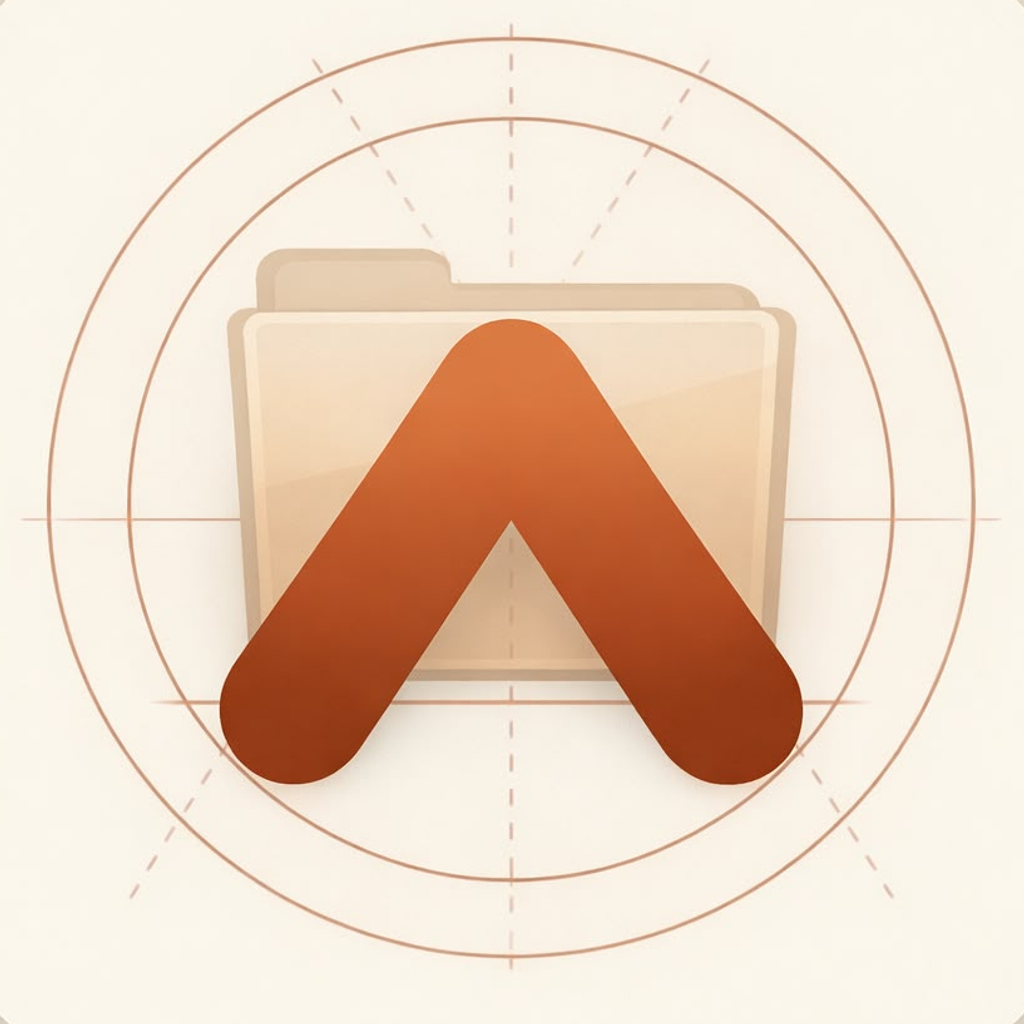
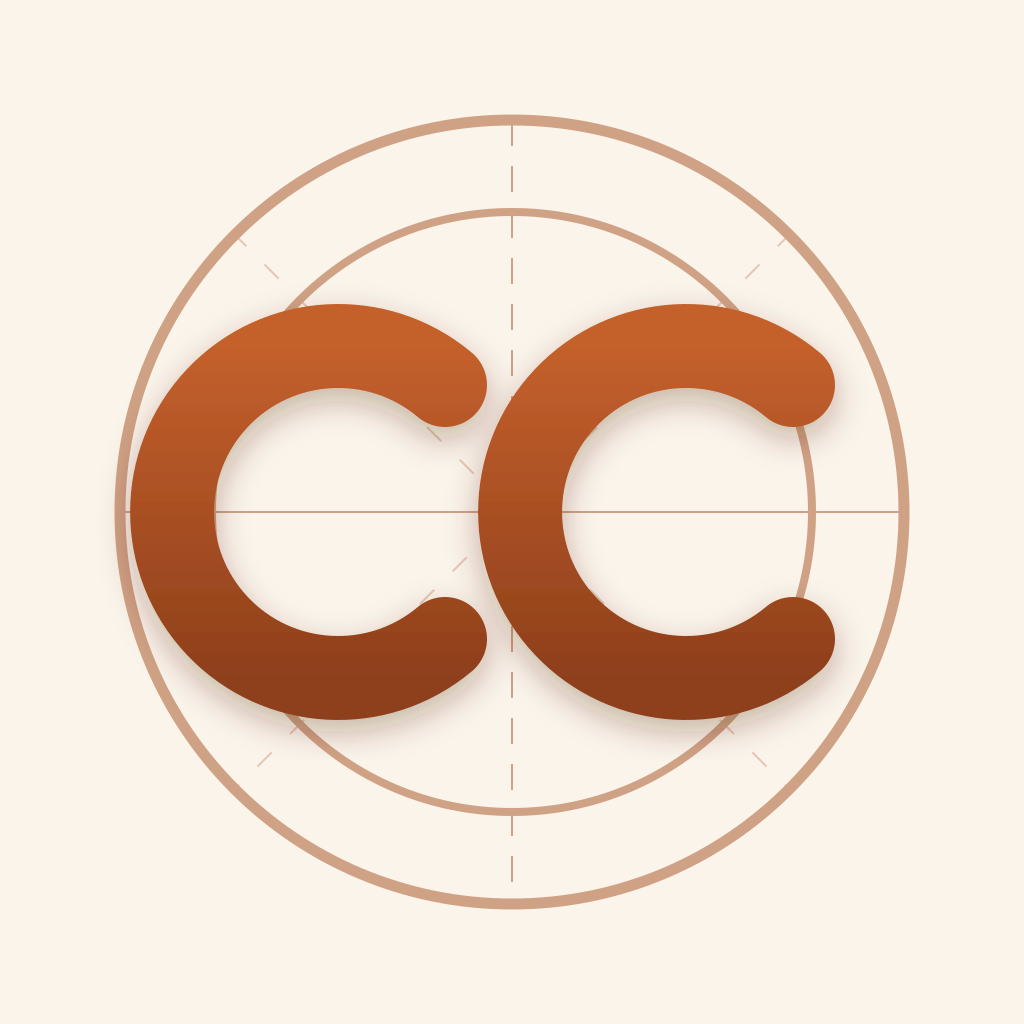
feat: icône ComClic v7 (monogramme CC) et sources vectorielles
Le chevron ne disait rien du nom de l'app et masquait l'appareil photo
placé derrière : remplacé par le monogramme « CC », dimensionné pour
remplir le cercle de visée extérieur. L'appareil photo en arrière-plan
est retiré, les cercles de visée sont conservés et épaissis.

Ajoute design/ (sources SVG versionnées + build-icons.js, jusqu'ici non
suivies) et assets/logo-mark.png, la marque seule sur fond transparent
utilisée dans les en-têtes de l'app.

diff --git a/design/build-icons.js b/design/build-icons.js
@@ -1,0 +1,47 @@
+// Régénère les icônes de l'app à partir des SVG de ce dossier.
+//
+// `sharp` est un outil PC uniquement : ne JAMAIS l'ajouter aux dépendances RN.
+//   npm install sharp --no-save
+//   node design/build-icons.js
+//   npm uninstall sharp --no-save
+//
+// Sources : icon.svg (visuel complet, fond crème bord à bord),
+// icon-foreground.svg (visuel seul à 66 %, transparent, zone sûre Android),
+// icon-monochrome.svg (silhouette, teintée par Android).
+const path = require('path');
+const sharp = require(path.join(__dirname, '..', 'node_modules', 'sharp'));
+
+const SRC = __dirname;
+const ASSETS = path.join(__dirname, '..', 'assets');
+
+const jobs = [
+  ['icon.svg', 'icon.png', 1024],
+  ['icon.svg', 'welcome-logo.png', 512],
+  ['icon.svg', 'favicon.png', 48],
+  ['icon-foreground.svg', 'android-icon-foreground.png', 1024],
+  ['icon-monochrome.svg', 'android-icon-monochrome.png', 1024],
+  // Marque seule (transparente) : petit logo des en-têtes dans l'app.
+  ['logo-mark.svg', 'logo-mark.png', 256],
+];
+
+async function main() {
+  for (const [src, out, size] of jobs) {
+    const info = await sharp(path.join(SRC, src), { density: 400 })
+      .resize(size, size)
+      .png()
+      .toFile(path.join(ASSETS, out));
+    console.log(out, `${info.width}x${info.height}`, `${info.size}o`);
+  }
+  // Aplat de fond Android = crème intérieure de l'icône (= adaptiveIcon.backgroundColor).
+  await sharp({
+    create: { width: 1024, height: 1024, channels: 4, background: '#FBF4EA' },
+  })
+    .png()
+    .toFile(path.join(ASSETS, 'android-icon-background.png'));
+  console.log('android-icon-background.png 1024x1024 (#FBF4EA)');
+}
+
+main().catch((e) => {
+  console.error(e.message);
+  process.exit(1);
+});
